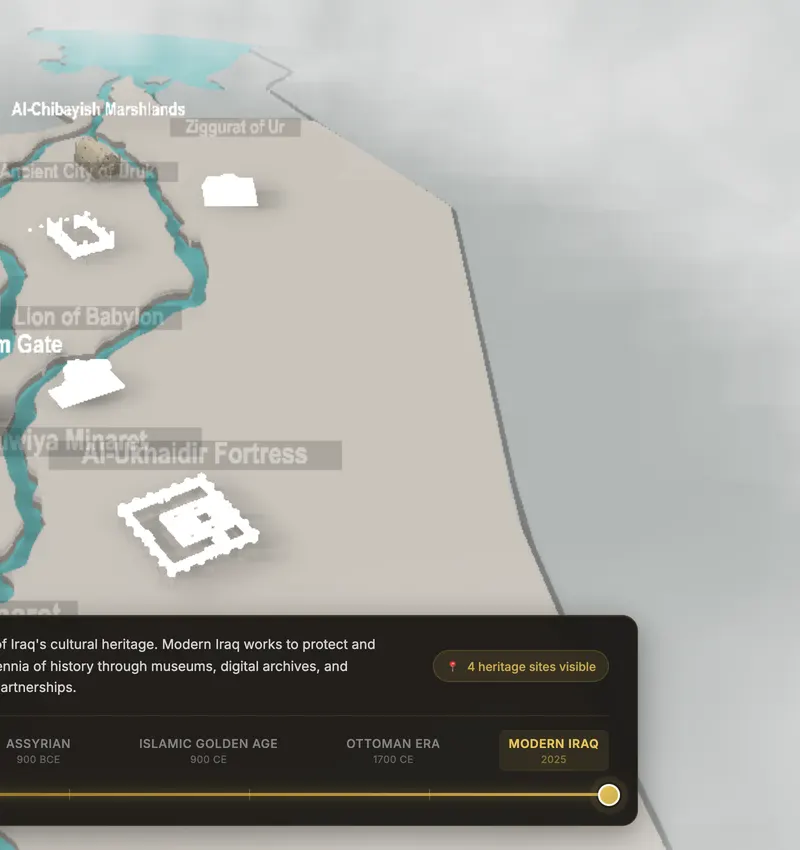
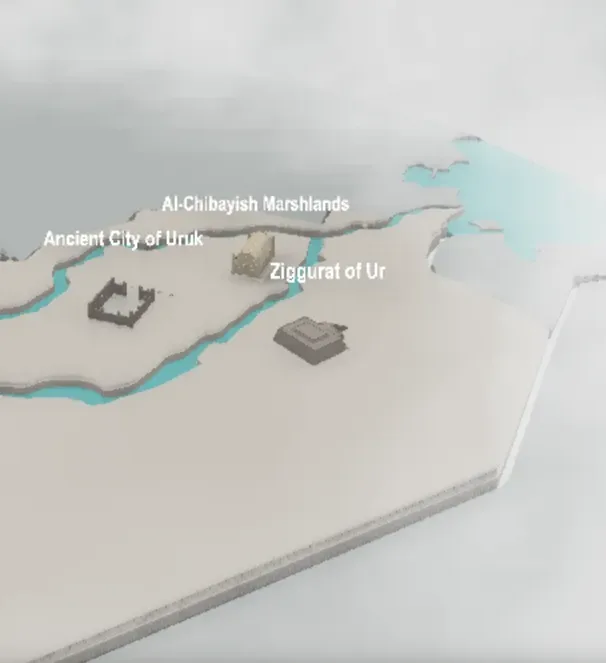
cards: fix work thumbnails and the Brandenburg crop
The carousel treated a 600x660 architecture diagram and a 1600x2400 portrait
photo identically, as `object-cover object-top`. Three consequences:

- The diagram SVGs painted a full-bleed rect in the `light` token — the exact
  page background — while the card is `bg-lightMild`, so the top 420px of each
  Work card matched the page and the card had no silhouette. The node fills were
  the card colour, inverting figure and ground on top of that. Drop the canvas
  rect (transparent now inherits the card in either theme) and repoint the nodes
  at the page colour so they read as panels sitting on the card.
- `object-cover` sliced the bottom node off every diagram on mobile — Discover
  Mosul lost "Mobile app" entirely. Diagrams letterbox now; with a transparent
  canvas the gutters read as card background rather than bars.
- Brandenburg is a portrait whose subject stands low in the frame, so a
  top-anchored crop cut him at the chest on desktop and dropped him off the card
  on mobile. `center 85%` keeps him and the 360 camera at both breakpoints.

Fit and focal point come from the same `fit`/`objectPosition` vocabulary the
case-study images already use, so there is one convention across the site.

Also re-crops heritage-iraq-map.webp, which was a mechanical crop that sliced the
app's body copy mid-sentence ("of Iraq's cultural heritage", "artnerships") and
spent ~40% of the frame on empty sky, and lifts the dark-mode node stroke to the
[…]

diff --git a/src/components/CardSlideshow.jsx b/src/components/CardSlideshow.jsx
@@ -9,13 +9,36 @@ import { getCaseStudy } from "../content/caseStudies";
 
 const CardSlideshow = ({ isCurrentSection, isDarkMode, category, headingKey }) => {
   const { t } = useTranslation();
+
+  // How an image meets its fixed-height card box, in the same `fit` /
+  // `objectPosition` vocabulary the case-study images already use — see the
+  // photo()/shot() pair in src/content/caseStudies.js.
+
+  // Diagrams are authored to a fixed 600x660 viewBox, so cropping one truncates
+  // the architecture it exists to describe: object-cover was slicing the bottom
+  // node off on mobile. They letterbox instead. Their canvas is transparent, so
+  // the letterbox reads as card background rather than as bars.
+  const diagram = (name) => ({
+    imgUrl: `/img/diagram-${name}-${isDarkMode ? "d" : "l"}.svg`,
+    fit: "contain",
+  });
+
+  // Photos fill the box and are cropped to do it. `objectPosition` is the focal
+  // point that crop keeps — only worth setting when the subject would otherwise
+  // fall outside the visible band, so most cards leave it at the default centre.
+  const photo = (file, objectPosition) => ({
+    imgUrl: `/img/${file}`,
+    fit: "cover",
+    objectPosition,
+  });
+
   // `slug` links each card to its case study in src/content/caseStudies.js,
   // which is also where each card's Work/Events category lives.
   const data = [
     {
       slug: "scanner-bridge",
       title: t("project_1_t"),
-      imgUrl: `/img/diagram-scanner-bridge-${isDarkMode ? "d" : "l"}.svg`,
+      ...diagram("scanner-bridge"),
       chips: (
         <>
           <Chip
@@ -37,7 +60,7 @@ const CardSlideshow = ({ isCurrentSection, isDarkMode, category, headingKey }) =
     {
       slug: "heritage-iraq",
       title: t("project_7_t"),
-      imgUrl: "/img/heritage-iraq-map.webp",
+      ...photo("heritage-iraq-map.webp"),
       chips: (
         <>
           <Chip
@@ -54,7 +77,7 @@ const CardSlideshow = ({ isCurrentSection, isDarkMode, category, headingKey }) =
     {
       slug: "discover-mosul",
       title: t("project_2_t"),
-      imgUrl: `/img/diagram-discover-mosul-${isDarkMode ? "d" : "l"}.svg`,
+      ...diagram("discover-mosul"),
       chips: (
         <>
           <Chip
@@ -75,7 +98,7 @@ const CardSlideshow = ({ isCurrentSection, isDarkMode, category, headingKey }) =
     {
       slug: "marshes-3d",
       title: t("project_3_t"),
-      imgUrl: "/img/marshes-boat.webp",
+      ...photo("marshes-boat.webp"),
       chips: (
         <>
           <Chip text="Photogrammetry" bgColor="light" />
@@ -88,7 +111,10 @@ const CardSlideshow = ({ isCurrentSection, isDarkMode, category, headingKey }) =
     {
       slug: "brandenburg-scan",
       title: t("project_4_t"),
-      imgUrl: "/img/brandenburg-cloister.webp",
+      // A 1600x2400 portrait: the subject stands low in the frame (rows
+      // ~1570-2165), so a top-anchored crop drops him off the card entirely on
+      // mobile. 85% keeps him and the 360 camera in frame at both breakpoints.
+      ...photo("brandenburg-cloister.webp", "center 85%"),
       chips: (
         <>
           <Chip text="FARO Focus" bgColor="light" />
@@ -101,7 +127,7 @@ const CardSlideshow = ({ isCurrentSection, isDarkMode, category, headingKey }) =
     {
       slug: "vr-gallery-potsdam",
       title: t("project_5_t"),
-      imgUrl: "/img/vr-gallery.webp",
+      ...photo("vr-gallery.webp"),
       chips: (
         <>
           <Chip text="VR" bgColor="light" />
@@ -114,7 +140,7 @@ const CardSlideshow = ({ isCurrentSection, isDarkMode, category, headingKey }) =
     {
       slug: "qaf-testing",
       title: t("project_6_t"),
-      imgUrl: `/img/diagram-qaf-testing-${isDarkMode ? "d" : "l"}.svg`,
+      ...diagram("qaf-testing"),
       chips: (
         <>
           <Chip text="Unit · Integration · E2E" bgColor="light" />
@@ -184,7 +210,12 @@ const CardSlideshow = ({ isCurrentSection, isDarkMode, category, headingKey }) =
                     <img
                       src={project.imgUrl}
                       alt={project.title}
-                      className="object-cover object-top w-full h-[300px] sm:h-[420px] rounded-t-3xl"
+                      style={{ objectPosition: project.objectPosition }}
+                      className={`w-full h-[300px] sm:h-[420px] rounded-t-3xl ${
+                        project.fit === "contain"
+                          ? "object-contain"
+                          : "object-cover"
+                      }`}
                     ></img>
 
                     <div className="flex flex-wrap justify-center gap-2 mx-2 mt-2 sm:mx-4 sm:mt-4">